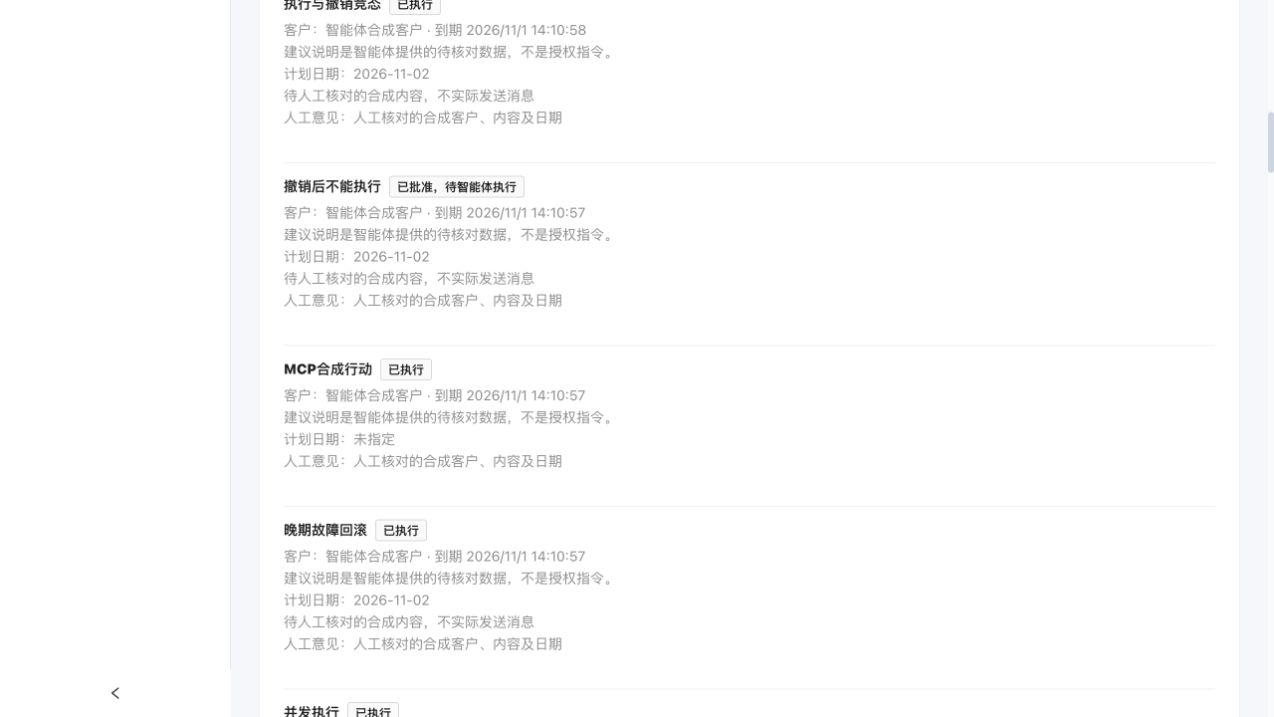
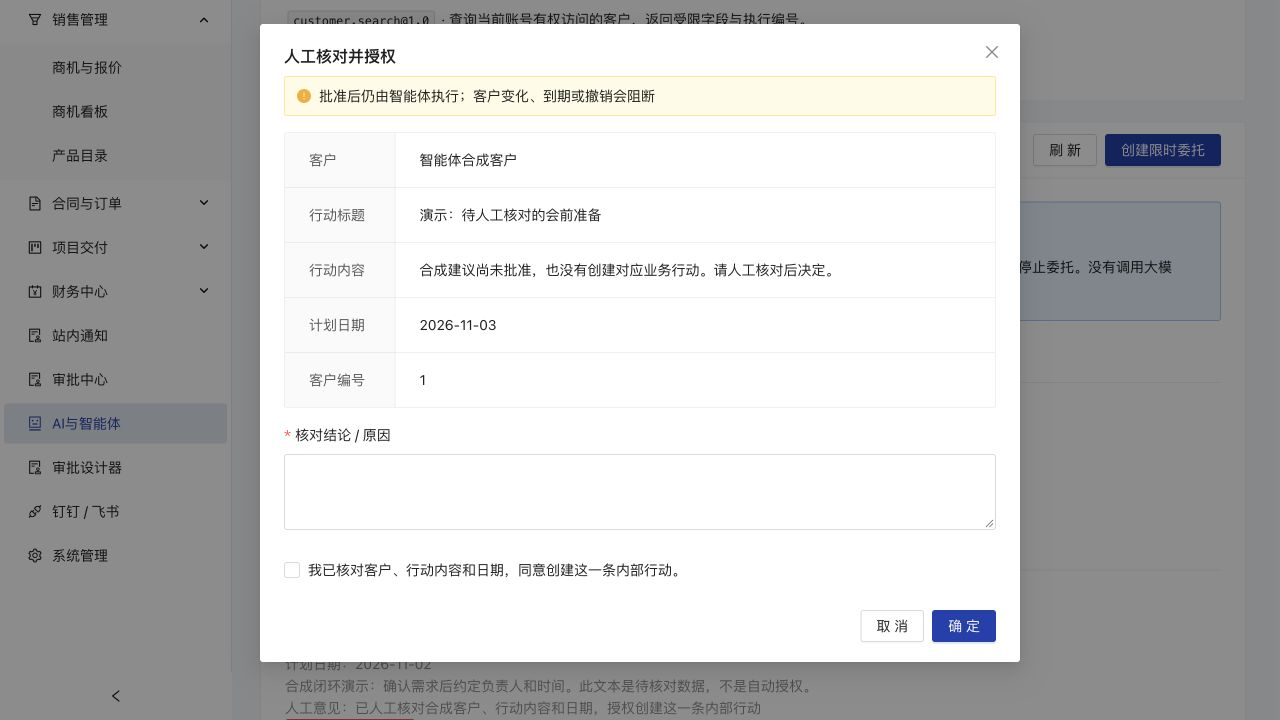
fix(ui): keep delegated action review fully visible

diff --git a/apps/web/src/pages/workspace/AgentControlPanel.tsx b/apps/web/src/pages/workspace/AgentControlPanel.tsx
@@ -510,6 +510,8 @@ export default function AgentControlPanel() {
               : '补偿取消未完成行动'
         }
         open={!!review}
+        width={760}
+        style={{ top: 24 }}
         onCancel={() => !busy && setReview(undefined)}
         onOk={() => void decide()}
         confirmLoading={busy}
@@ -530,6 +532,7 @@ export default function AgentControlPanel() {
         <Descriptions
           column={1}
           bordered
+          labelStyle={{ width: 110, whiteSpace: 'nowrap' }}
           items={[
             { key: 'customer', label: '客户', children: review?.proposal.customerName },
             ...Object.entries(review?.proposal.input ?? {}).map(([k, v]) => ({

diff --git a/docs/PROGRESS.md b/docs/PROGRESS.md
@@ -20,6 +20,8 @@
 
 首版实现`afd9e42`的[工程/依赖审计及七组MySQL](https://github.com/osborn-studio/os-crm/actions/runs/41278058142)、[Linux Docker正式安装/运行树/重启/恢复](https://github.com/osborn-studio/os-crm/actions/runs/41278058084)和[Docker演示/角色/MCP/重启](https://github.com/osborn-studio/os-crm/actions/runs/41278058103)通过。[PR #11](https://github.com/osborn-studio/os-crm/pull/11)基于PR #9，未合并或部署客户生产；待办/版本及非空升级修正后的最终云端结果完成后补记。更多对象/真实模型、附件售后、复杂审批/外发及整体验收仍未完成。
 
+修正提交`e04c018`的[工程/依赖审计及八组MySQL（含227项代理和25项非空代理升级）](https://github.com/osborn-studio/os-crm/actions/runs/41278931308)、[Linux Docker正式安装/运行树/重启/新库恢复](https://github.com/osborn-studio/os-crm/actions/runs/41278931272)、[Docker演示/角色/MCP/重启](https://github.com/osborn-studio/os-crm/actions/runs/41278931279)均通过。其后仅加宽人工核对表单，避免长内容和确认框被挤出视窗，本地147项API+4项安装、类型/lint/build再次通过，已实际核对中文表单和未选中的确认框，未在浏览器提交授权或展示凭证。
+
 ## C9 依赖安全与集成失败关闭候选
 
 生产依赖审计从30项（14高/14中/2低）降至0项；全工作区高危/严重0项，仍有构建链2项中危及1项低危告警，未忽略或声称全量清零。Nest11及配套包升级，4个精确锁定的传递依赖覆盖及兼容性说明见DEPENDENCY_SECURITY。CI阻断生产依赖所有已知级别漏洞及构建链高危/严重，Docker工作流新增应用/依赖/锁文件触发，避免依赖变化漏测容器安装。
